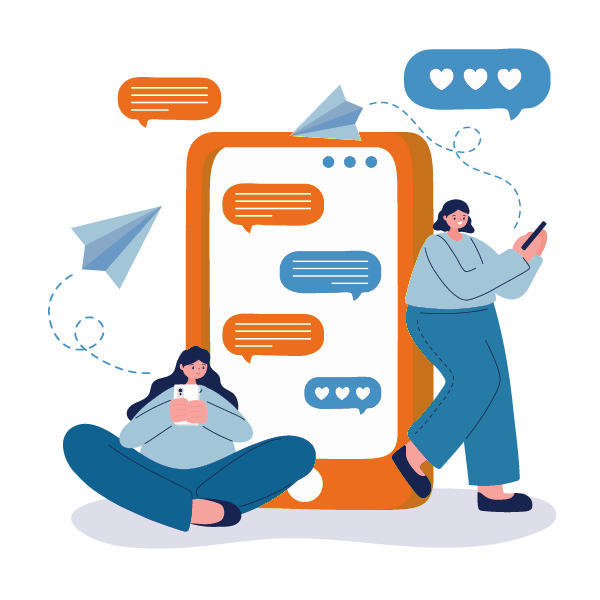
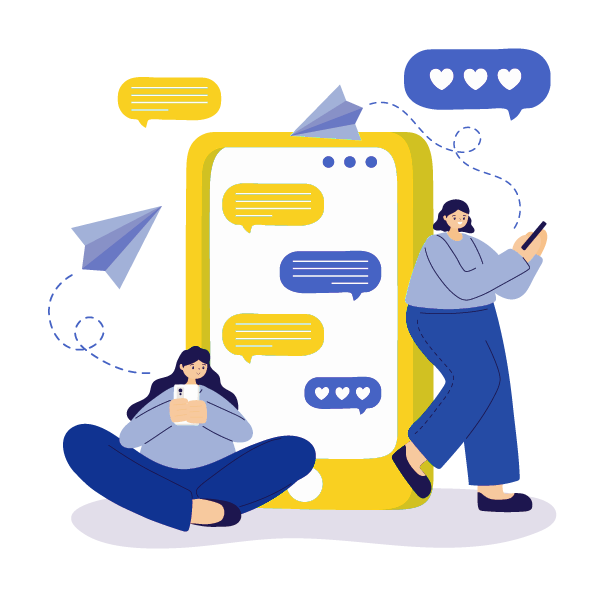
wip

diff --git a/app/components/PortalTurismo/show/SobreOCurso.vue b/app/components/PortalTurismo/show/SobreOCurso.vue
@@ -11,7 +11,7 @@
       <div
         class="
           border-padrao
-          primary--text
+          c-primary--text
           spa-1
           elevation-5
           sml-md-5
@@ -27,19 +27,19 @@
             <p class="c-info-darken-2--text">Curso Online</p>
             <v-divider></v-divider>
             <p class="c-info-darken-2--text mb-0 mt-3">
-              <clr-icon shape="hourglass" class="primary--text"></clr-icon>
+              <clr-icon shape="hourglass" class="c-primary--text"></clr-icon>
               Duração:
               <span class="c-info-darken-2--text font-500">{{ duracao }}</span>
             </p>
             <p class="c-info-darken-2--text mb-0">
-              <clr-icon shape="clock" class="primary--text"></clr-icon> Carga
+              <clr-icon shape="clock" class="c-primary--text"></clr-icon> Carga
               Horária:
               <span class="c-info-darken-2--text font-500">{{
                 carga_horaria
               }}</span>
             </p>
             <p class="c-info-darken-2--text mb-3">
-              <clr-icon shape="calendar" class="primary--text"></clr-icon>
+              <clr-icon shape="calendar" class="c-primary--text"></clr-icon>
               <span v-if="inicio">Início:</span>
               <span v-if="inicio" class="c-info-darken-2--text font-500">{{
                 inicio

diff --git a/app/components/PortalTurismo/FormSaibaMais.vue b/app/components/PortalTurismo/FormSaibaMais.vue
@@ -39,7 +39,7 @@
             </p>
             <v-text-field
               label="Nome Completo"
-              color="primary"
+              color="c-primary"
               v-model="inscricao.nome"
               :rules="rules.nome"
               required
@@ -60,7 +60,7 @@
               </v-select>
               <v-text-field
                 label="Celular"
-                color="primary"
+                color="c-primary"
                 v-model="inscricao.celular"
                 :mask="localMasks[local]"
                 :rules="rules.celular"
@@ -70,7 +70,7 @@
             </v-layout>
             <v-text-field
               label="E-Mail"
-              color="primary"
+              color="c-primary"
               v-model="inscricao.email"
               :rules="rules.email"
               required
@@ -85,7 +85,7 @@
           <v-card-actions>
             <v-spacer></v-spacer>
             <v-btn
-              color="primary"
+              color="c-primary"
               type="submit"
               :loading="loading"
               :disabled="disabled"
@@ -102,7 +102,7 @@
           </p>
           <div
             class="
-              primary
+              c-primary
               d-flex
               align-center
               justify-center

diff --git a/app/components/PortalTurismo/FaleConoscoBtn.vue b/app/components/PortalTurismo/FaleConoscoBtn.vue
@@ -1,5 +1,5 @@
 <template>
-  <v-btn @click="openDialog" class="primary mx-auto" :large="large"
+  <v-btn @click="openDialog" class="c-primary mx-auto" :large="large"
     ><div
       class="d-flex align-center"
       v-html="
@@ -22,21 +22,21 @@ export default {
   },
   computed: {
     interesse() {
-      let curso = this.curso ? "-" + this.curso : "";
-      return this.titulo + curso;
+      let curso = this.curso ? '-' + this.curso : ''
+      return this.titulo + curso
     },
   },
   methods: {
     openDialog() {
       let dialogInfo = {
-        titulo: this.titulo ? this.titulo : "Fale Conosco",
-        curso: this.curso ? this.curso : "",
-        redirect: this.redirect ? this.redirect : "https://wa.me/554521059009",
-      };
-      Event.$emit(this.eventName ? this.eventName : "openDialog", dialogInfo);
+        titulo: this.titulo ? this.titulo : 'Fale Conosco',
+        curso: this.curso ? this.curso : '',
+        redirect: this.redirect ? this.redirect : 'https://wa.me/554521059009',
+      }
+      Event.$emit(this.eventName ? this.eventName : 'openDialog', dialogInfo)
     },
   },
-};
+}
 </script>
 <style lang='scss'>
 </style>

diff --git a/app/components/PortalTurismo/index/Masterclass.vue b/app/components/PortalTurismo/index/Masterclass.vue
@@ -131,18 +131,18 @@
                   profissionais do Turismo e Hotelaria.
                 </h3>
                 <v-chip
-                  class="white primary--text hand smt-6 semibold"
+                  class="white c-primary--text hand smt-6 semibold"
                   disabled
                 >
                   <clr-icon
                     shape="certificate"
-                    class="primary--text mr-2"
+                    class="c-primary--text mr-2"
                   ></clr-icon>
                   COM CERTIFICADO</v-chip
                 >
                 <br class="hidden-lg-and-down" />
                 <v-chip
-                  class="white primary--text hand smt-6 semibold"
+                  class="white c-primary--text hand smt-6 semibold"
                   disabled
                 >
                   100% ONLINE E GRATUITO</v-chip

diff --git a/app/components/PortalTurismo/show/Equipe.vue b/app/components/PortalTurismo/show/Equipe.vue
@@ -16,7 +16,7 @@
         <div style="flex: 0 !important">
           <v-avatar
             size="calc(62px + 3vw)"
-            class="border-padrao-2 primary--text"
+            class="border-padrao-2 c-primary--text"
           >
             <div>
               <v-img class="spa-15" :src="image" :alt="nome" />
